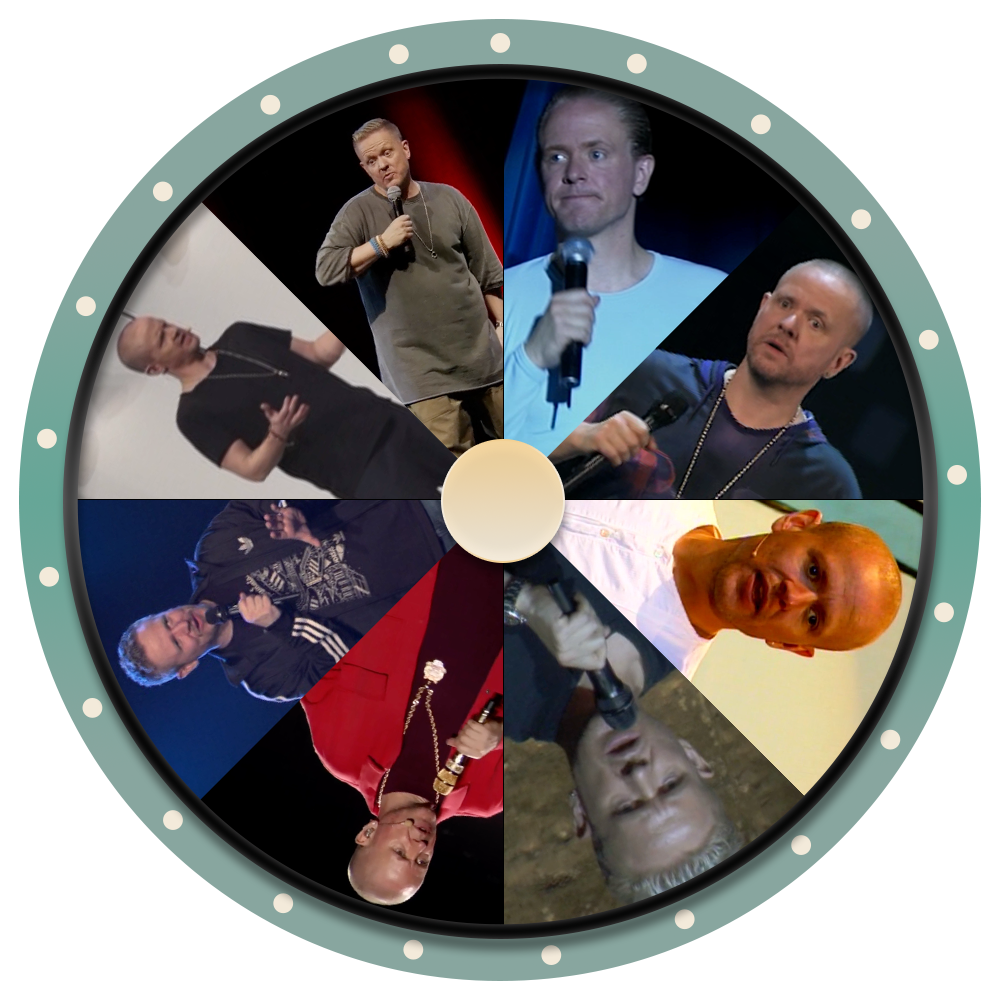
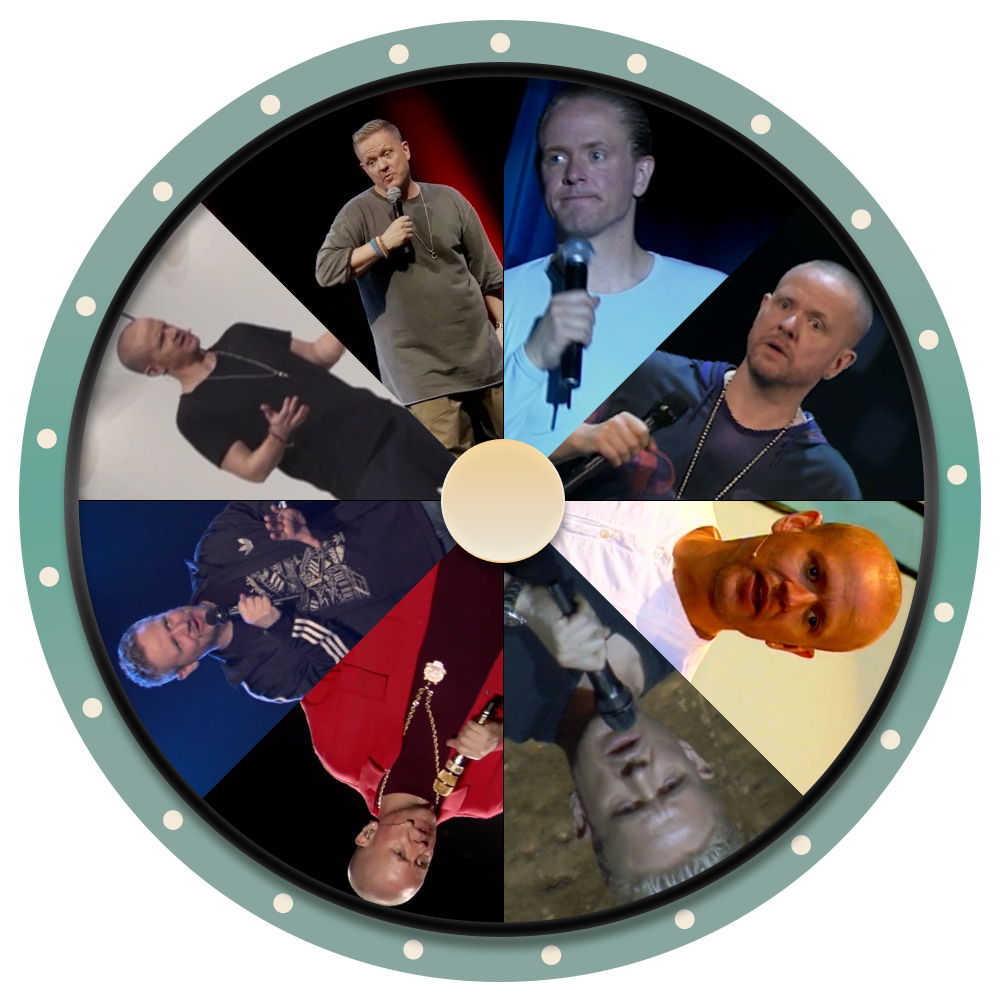
update

diff --git a/src/App.css b/src/App.css
@@ -13,23 +13,30 @@
 h1{
   color: black;
   font-size: 38px;
-  margin-top: 30px;
   margin-left: 20px;
   margin-right: 20px;
   text-align: center;
   font-family: "GilroyLight";
-  margin-block-end: -0.4em;
+  
+  margin-bottom: 50px;
 }
 
 h2{
   color: black;
-  font-size: 44px;
-  margin-bottom: 50px;
+  font-size: 20px;
   margin-left: 20px;
   margin-right: 20px;
   text-align: center;
   font-family: "GilroyBold";
-  margin-block-start: 0.00em;
+ 
+}
+
+a{
+  margin-top: 30px;
+  font-family: "GilroyLight";
+  color: black;
+  text-decoration: green underline;
+  text-underline-offset: 8px;
 }
 
 span{
@@ -38,13 +45,13 @@ span{
 
 @media screen and (max-width: 641px) {
   h1{
-    font-size: 37px;
+    font-size: 25px;
     margin-top: 30px;
-    margin-block-end: -0.1em;
+    margin-block-end: -0.0em;
   }
   
   h2{
-    font-size: 17px;
+    font-size: 25px;
     margin-bottom: 50px;
     margin-block-start: 0.00em;
   }
@@ -62,9 +69,10 @@ span{
   }
   
   h2{
-    font-size: 16px;
+    font-size: 15px;
     margin-bottom: 50px;
     margin-block-start: 0.00em;
+    
   }
   
   span{

diff --git a/src/App.js b/src/App.js
@@ -8,9 +8,11 @@ import tekst from "./test.png"
 function App() {
   return (
     <>
-    <h1>Burde du se </h1>
+        
+    <h2><a href="url">JOKES - fra en hvid, straight mand</a></h2>
+    <h1>Burde du se turnéen?</h1>
     <div id="containerIntro">
-    <h2>"JOKES - fra en hvid, straigth mand" <span>?</span></h2>
+    <h2></h2>
     </div>
     <WheelPicture></WheelPicture>
     </>
@@ -19,4 +21,13 @@ function App() {
 
 export default App;
 
-//<h1>Burde du se "JOKES - fra en hvid, straigth mand"?</h1>   <img src={tekst} className="App-logo" alt="logo" />
+//<h1>Burde du se "JOKES - fra en hvid, straigth mand"?</h1>   <img src={tekst} className="App-logo" alt="logo"/>
+
+/*
+    <h1>Burde du opleve Matthesens nye turné? </h1>
+
+<h1>Burde du se </h1>
+<div id="containerIntro">
+<h2>JOKES - fra en hvid, straigth mand <span>?</span></h2>
+</div>
+*/

diff --git a/src/WheelPicture.js b/src/WheelPicture.js
@@ -131,7 +131,7 @@ const[currentVideo, setCurrentVideo] = useState()
 
       <div id="outer">
         <div id="app">
-          <img className="foot" src="fodgrøn.png" />
+          <img className="foot" src="fodgrøn2.png" />
           <img className="wheel" src="hjulgrøn.png" />
           <img className="marker" src="markerlilla.png" />
           <img onClick={() => start()} className="button" src="buttongrøn.png" />
